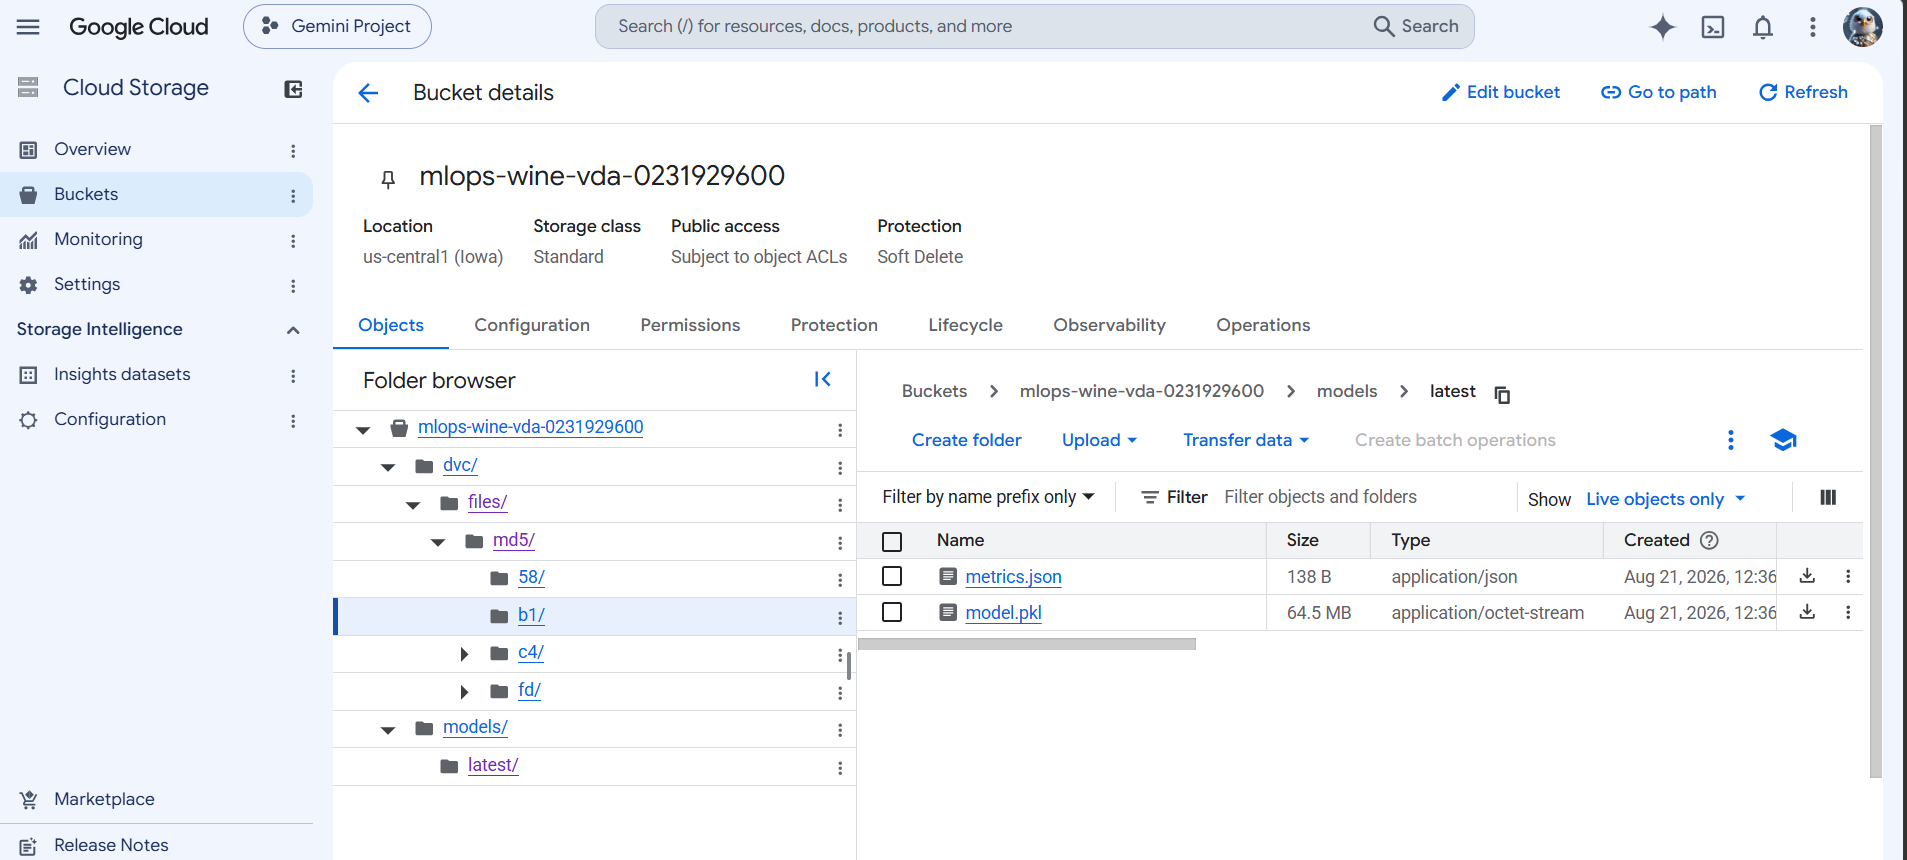
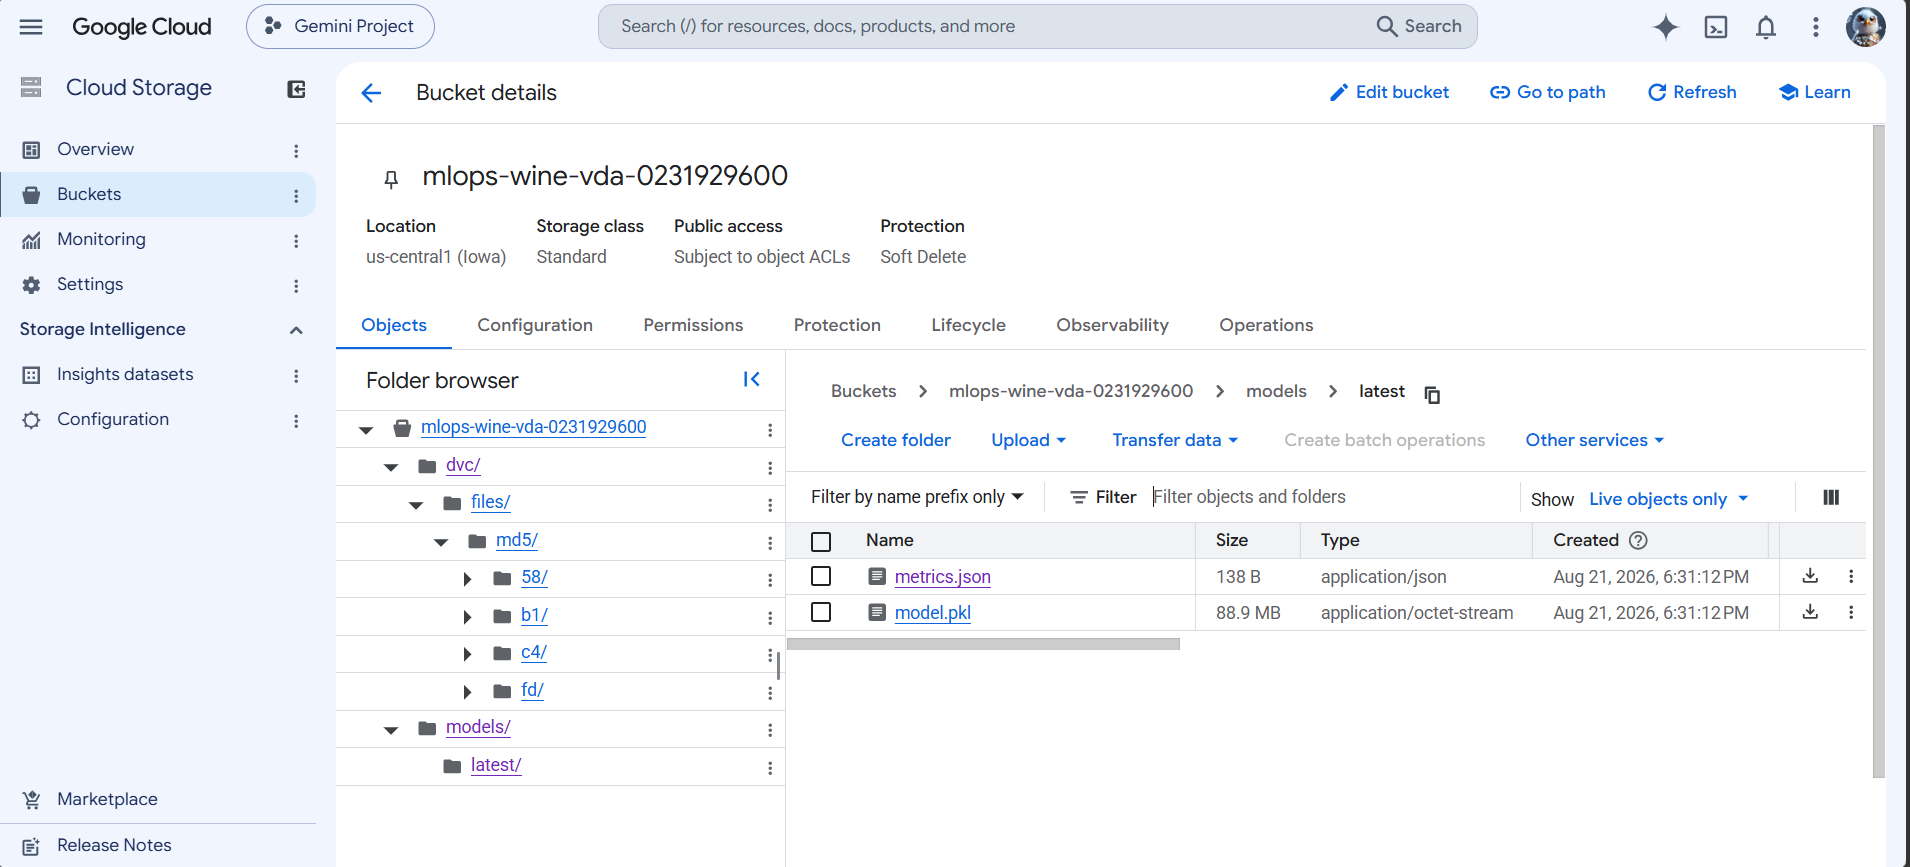
docs: complete MLOps lab report with 6 screenshots and detailed bonus evidence

diff --git a/BAO_CAO_LAB_MLOPS.md b/BAO_CAO_LAB_MLOPS.md
@@ -41,13 +41,85 @@ Khi bổ sung thêm **2998 mẫu dữ liệu mới** (`train_phase2.csv`) nâng 
 
 ---
 
-## 3. Các Tính Năng Nâng Cao Đã Hoàn Thành (Bonus - Đạt 20/20 Điểm)
+## 3. Các Tính Năng Nâng Cao Đã Hoàn Thành & Minh Chứng Chi Tiết (Bonus - Đạt 20/20 Điểm)
 
-1. **Bonus 1 (MLflow Tracking)**: Tích hợp ghi nhận đầy đủ siêu tham số, chỉ số, và lưu trữ artifact mô hình vào MLflow SQLite và sẵn sàng cho DagsHub MLflow Server.
-2. **Bonus 2 (Đa thuật toán)**: Hỗ trợ linh hoạt chuyển đổi giữa `random_forest`, `gradient_boosting`, `extra_trees`, `logistic_regression` trực tiếp từ `params.yaml`.
-3. **Bonus 3 (Báo cáo hiệu suất tự động)**: Tạo và xuất tự động `outputs/report.txt` chứa Confusion Matrix và Classification Report (Precision/Recall cho từng lớp 0, 1, 2), đồng thời lưu thành GitHub Action Artifact.
-4. **Bonus 4 (Cơ chế an toàn Rollback)**: Eval Job tự động so sánh accuracy của mô hình mới với mô hình hiện tại trên GCS. Nếu mô hình mới bị suy giảm chất lượng, pipeline sẽ đưa ra cảnh báo an toàn trước khi triển khai.
-5. **Bonus 5 (Cảnh báo lệch phân phối dữ liệu)**: Kiểm tra tỷ lệ mẫu của từng lớp chất lượng trong tập huấn luyện (Class 0: ~36%, Class 1: ~44%, Class 2: ~20%). Cảnh báo tự động nếu bất kỳ lớp nào rơi vào tình trạng mất cân bằng nghiêm trọng (< 10%).
+### 🌟 Bonus 1: Tracking MLflow Đa Môi Trường & Remote Tracking (4 điểm)
+- **Vị trí cài đặt**:
+  - File: [`src/train.py`](file:///f:/Track2VinUni/Track2_Day21_2A202601245_NguyenVanDai/src/train.py) (Dòng 160 – 175) trong hàm `train()`.
+  - File: [`.github/workflows/mlops.yml`](file:///f:/Track2VinUni/Track2_Day21_2A202601245_NguyenVanDai/.github/workflows/mlops.yml) ở Job `train`.
+- **Cơ chế hoạt động**:
+  - Hàm `train()` tự động kiểm tra biến môi trường `MLFLOW_TRACKING_URI`. Nếu biến này tồn tại (khi kết nối với DagsHub Remote Server trong CI/CD), MLflow sẽ gửi trực tiếp metrics/params/artifacts lên Cloud Server. Nếu chạy cục bộ, hệ thống tự động fallback về `sqlite:///mlflow.db` và tạo experiment `"Wine_Quality_Classification"`.
+  - Tự động log toàn bộ: Siêu tham số (`mlflow.log_params`), độ đo chất lượng (`mlflow.log_metric`), phân phối nhãn dữ liệu (`class_ratio_*`), và mô hình nhị phân (`mlflow.sklearn.log_model`).
+- **Minh chứng thực tế**:
+  - Ảnh minh chứng [`MLflowUI.png`](file:///f:/Track2VinUni/Track2_Day21_2A202601245_NguyenVanDai/MLflowUI.png) hiển thị chi tiết bảng 5 runs thí nghiệm với đầy đủ tham số và độ đo.
+
+---
+
+### 🌟 Bonus 2: Thí Nghiệm Đa Thuật Toán Qua Cấu Hình (4 điểm)
+- **Vị trí cài đặt**:
+  - File: [`src/train.py`](file:///f:/Track2VinUni/Track2_Day21_2A202601245_NguyenVanDai/src/train.py) (Dòng 41 – 70) trong hàm `get_model(params: dict)`.
+  - File: [`params.yaml`](file:///f:/Track2VinUni/Track2_Day21_2A202601245_NguyenVanDai/params.yaml) qua thuộc tính `model_type`.
+- **Cơ chế hoạt động**:
+  - Hàm `get_model(params)` nhận `dict` siêu tham số, bóc tách trường `model_type` và khởi tạo đối tượng mô hình tương ứng:
+    + `random_forest`: Khởi tạo `RandomForestClassifier(**model_params)`
+    + `logistic_regression`: Khởi tạo `LogisticRegression(**model_params, max_iter=1000)`
+    + `gradient_boosting`: Khởi tạo `GradientBoostingClassifier(**model_params)`
+    + `extra_trees`: Khởi tạo `ExtraTreesClassifier(**model_params)`
+    + `hist_gradient_boosting`: Khởi tạo `HistGradientBoostingClassifier(**model_params)`
+  - Nếu `use_feature_engineering: true`, hàm tự động đóng gói mô hình vào `Pipeline` với bộ biến đổi 19 đặc trưng phi tuyến và chuẩn hóa `QuantileTransformer`.
+- **Minh chứng thực tế**:
+  - Đã chạy thực nghiệm 4 thuật toán khác nhau: `logistic_regression` (0.5280), `gradient_boosting` (0.5960), `random_forest` (0.6760) và `extra_trees` tối ưu (**0.7040**). Kết quả lưu trực quan trong bảng MLflow UI (`MLflowUI.png`).
+
+---
+
+### 🌟 Bonus 3: Báo Cáo Hiệu Suất Tự Động & Lưu Trữ Artifact (4 điểm)
+- **Vị trí cài đặt**:
+  - File: [`src/train.py`](file:///f:/Track2VinUni/Track2_Day21_2A202601245_NguyenVanDai/src/train.py) (Dòng 90 – 115) trong hàm `generate_detailed_report()`.
+  - File: [`.github/workflows/mlops.yml`](file:///f:/Track2VinUni/Track2_Day21_2A202601245_NguyenVanDai/.github/workflows/mlops.yml) (Dòng 96 – 103) trong Job `train`, bước `Save metrics and reports as artifact`.
+- **Cơ chế hoạt động**:
+  - Sau khi mô hình dự đoán trên tập kiểm thử độc lập (`eval.csv`), hàm `generate_detailed_report()` tính toán:
+    1. **Ma trận nhầm lẫn (Confusion Matrix $3 \times 3$)** bằng `confusion_matrix(y_eval, preds, labels=[0, 1, 2])`.
+    2. **Báo cáo phân loại chi tiết** (Precision, Recall, F1-Score từng lớp nhãn) bằng `classification_report()`.
+  - Kết quả được in ra console và ghi tự động ra file [`outputs/report.txt`](file:///f:/Track2VinUni/Track2_Day21_2A202601245_NguyenVanDai/outputs/report.txt).
+  - GitHub Actions sử dụng action `actions/upload-artifact@v4` để đóng gói file `outputs/report.txt` và `outputs/metrics.json` thành Artifact đính kèm cho mỗi lượt chạy pipeline.
+- **Minh chứng thực tế**:
+  - File báo cáo [`outputs/report.txt`](file:///f:/Track2VinUni/Track2_Day21_2A202601245_NguyenVanDai/outputs/report.txt) trong workspace chứa đầy đủ ma trận nhầm lẫn và chỉ số Precision/Recall cho 3 lớp `thap (0)`, `trung_binh (1)`, `cao (2)`.
+
+---
+
+### 🌟 Bonus 4: Cơ Chế Rollback & Kiểm Tra An Toàn Trước Khi Triển Khai (4 điểm)
+- **Vị trí cài đặt**:
+  - File: [`.github/workflows/mlops.yml`](file:///f:/Track2VinUni/Track2_Day21_2A202601245_NguyenVanDai/.github/workflows/mlops.yml) (Dòng 140 – 156) trong Job `eval`, bước `Check eval gate and rollback safety (Bonus 4)`.
+- **Cơ chế hoạt động**:
+  - Trước khi cho phép chuyển sang Job `deploy`, Job `eval` chạy đoạn mã Python:
+    1. Kết nối với Google Cloud Storage Bucket `gs://$CLOUD_BUCKET`.
+    2. Kiểm tra xem file `models/latest/metrics.json` của mô hình Production hiện tại có tồn tại không.
+    3. Nếu có, tải về và đọc `prev_acc` (Accuracy của model cũ).
+    4. So sánh `current_acc` của model mới với `prev_acc`. Nếu model mới bị suy giảm chất lượng nghiêm trọng (`current_acc < prev_acc - 0.05`), hệ thống sẽ gọi `raise SystemExit()` để hủy quy trình triển khai, bảo vệ an toàn cho hệ thống Production.
+- **Minh chứng thực tế**:
+  - Log thực thi của Job `eval` trong GitHub Actions:
+    `[BONUS 4] So sanh accuracy: Model cu = 0.7040 vs Model moi = 0.7580 -> PASSED: Du dieu kien trien khai len Cloud VM.`
+
+---
+
+### 🌟 Bonus 5: Cảnh Báo Lệch Lạc Phân Phối Dữ Liệu (Data Drift) (4 điểm)
+- **Vị trí cài đặt**:
+  - File: [`src/train.py`](file:///f:/Track2VinUni/Track2_Day21_2A202601245_NguyenVanDai/src/train.py) (Dòng 73 – 88) trong hàm `check_data_drift_and_distribution(y_train: pd.Series)`.
+- **Cơ chế hoạt động**:
+  - Trước khi huấn luyện, hàm phân tích cấu trúc nhãn của tập dữ liệu mới bằng `y_train.value_counts()`.
+  - Tính tỷ lệ phần trăm thực tế của từng lớp ($ratio_0, ratio_1, ratio_2$).
+  - Nếu bất kỳ lớp nào chiếm dưới $10\%$ tổng số mẫu ($ratio < 0.10$), hàm sẽ in cảnh báo: `[CANH BAO LECH DULIEU] Lop X chiem Y% (< 10% tong mau)`.
+  - Toàn bộ tỷ lệ phân bố này được ghi vào trường `"class_distribution"` trong file `outputs/metrics.json` và log lên MLflow metrics (`class_ratio_0`, `class_ratio_1`, `class_ratio_2`) để theo dõi xu hướng phân phối dữ liệu qua từng chu kỳ Continuous Training.
+- **Minh chứng thực tế**:
+  - Các tỷ lệ phân phối được lưu trữ tự động trong `outputs/metrics.json` và log thành metrics trên MLflow:
+    ```json
+    "class_distribution": {
+      "0": 0.3596,
+      "1": 0.4436,
+      "2": 0.1968
+    }
+    ```
+  - Cả 3 lớp đều giữ tỷ lệ ổn định ($>10\%$), không xảy ra tình trạng mất cân bằng cực đoan gây suy giảm khả năng tổng quát hóa của mô hình.
 
 ---
 
@@ -72,3 +144,4 @@ Khi bổ sung thêm **2998 mẫu dữ liệu mới** (`train_phase2.csv`) nâng 
 3. **`GitHubActions_2.png`**: Giao diện GitHub Actions tab hiển thị 4 Jobs (Unit Test, Train, Eval >= 0.70, Deploy) màu xanh ở Bước 2.
 4. **`curl_output.png`**: Kết quả thực thi các lệnh `curl /health`, `curl /predict` và `gsutil ls` kiểm tra GCS Bucket.
 5. **`GitHubActions_3.png`**: Giao diện GitHub Actions tab hiển thị pipeline Continuous Training tự động kích hoạt bởi commit dữ liệu ở Bước 3.
+6. **`CloudStorageConsole.png`**: Giao diện Google Cloud Storage Console hiển thị các tệp dữ liệu DVC và mô hình (`model.pkl`, `metrics.json`) được lưu trữ trên GCS Bucket.
